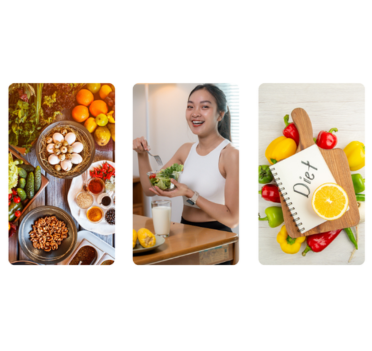
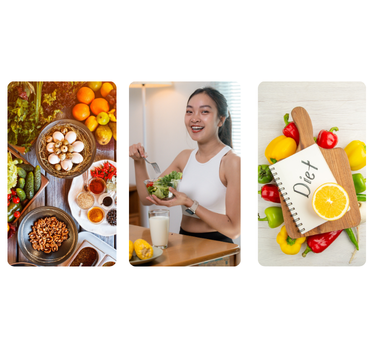
upadted

diff --git a/diet-consulting.html b/diet-consulting.html
@@ -181,7 +181,7 @@
 
                         <div class="col-lg-6">
                             <div class="row">
-                                <div class="col-4">
+                                <div class="col-4 diet-consulting-col">
                                     <img src="images/diet-consulting.webp" alt=""
                                         class="wow fadeInUp diet-consulting-lg">
                                     <img src="images/diet-consulting-sm.webp" alt=""

diff --git a/css/style.css b/css/style.css
@@ -19833,9 +19833,12 @@ td {
 
 }
 
-@media(max-width:360px) {
-  .diet-consulting-sm {
-    margin-right: 40px;
+@media(max-width:768px) {
+   .diet-consulting-col{
+    width:100%;
+   }
+  .diet-consulting-col .diet-consulting-sm {
+    width: 100%;
   }
 }
 
